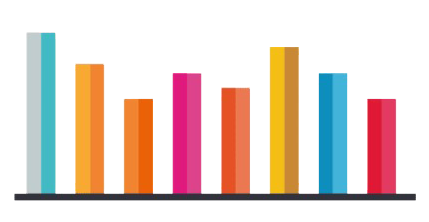
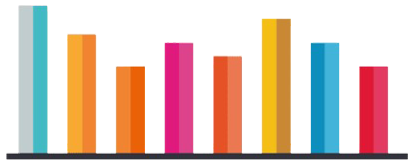
dashbord pronto

Changed region(s): [[0.0, 0.0299, 0.9879, 0.9581]]

diff --git a/dashbord.html b/dashbord.html
@@ -71,9 +71,11 @@
 	</ul>-->
 
 	<div class="blocosBranco1">
-		<h3>Tarefas Pendentes</h3>
-		<p>"Não deixe pra amanhã o que pode ser feito hoje."</p>
+		<h3 class="textobb">Tarefas Pendentes</h3>
+		<p class="textobb2">"Não deixe pra amanhã o que pode ser feito hoje."</p>
 	</div>
-	<div class="blocosBranco2"></div>
+	<div class="blocosBranco2"><h3 class="textobb">Faturamento Total</h3>
+		<p class="textobb2">"Bardo nem é gente!!!"</p>
+		<img id="projecao" src="images\projecao.png"></div>
 </body>
 </html>

diff --git a/styledb.css b/styledb.css
@@ -195,3 +195,16 @@ div img{
     box-shadow: 1px 1px 8px;
     
 }
+#projecao{
+    margin-left: 50px;
+    margin-top: 5px;
+}
+
+.textobb{
+    margin-left: 20px;
+}
+.textobb2{
+    margin-left: 25px;
+    font-size: 11px;
+    color: gray;
+}
